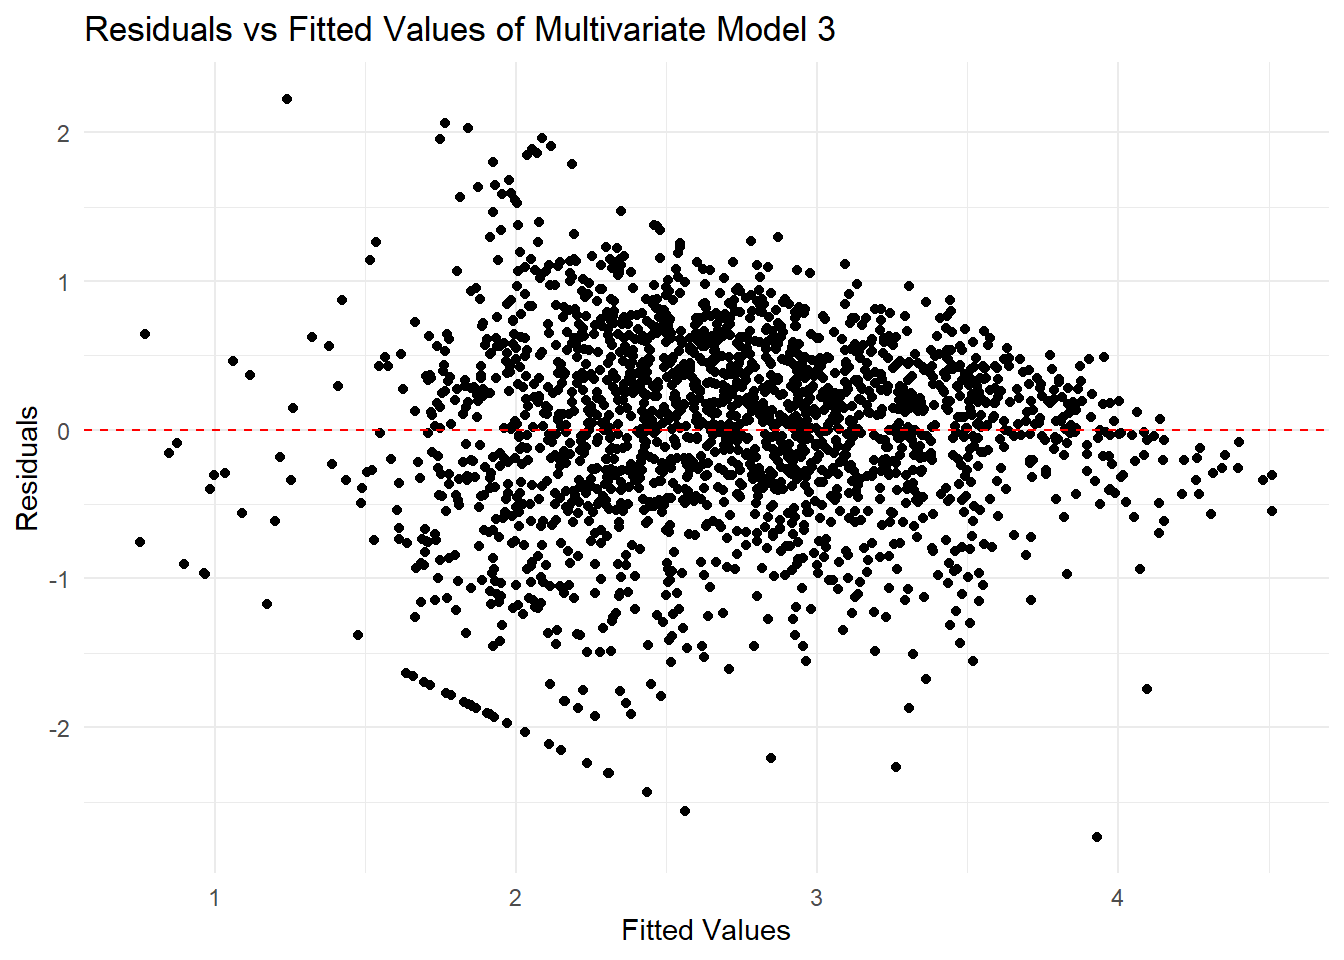
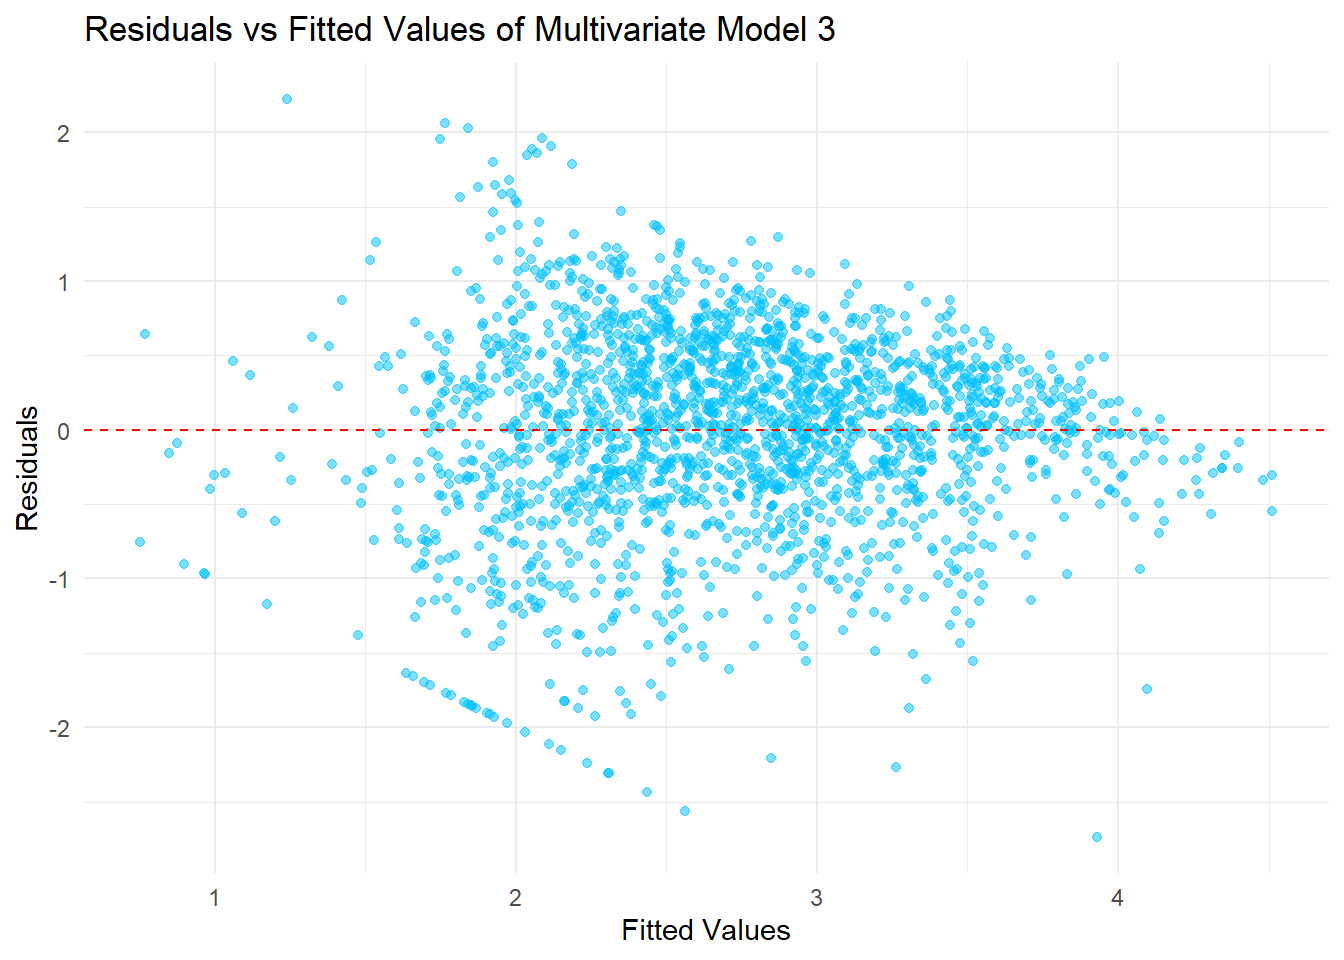
residual plots

diff --git a/statistical_analysis.html b/statistical_analysis.html
@@ -1205,7 +1205,7 @@ Confidence Intervals</caption>
   ) 
 m1_residual |&gt;
   ggplot(aes(x = fitted, y = residuals)) +
-  geom_point() +
+  geom_point(alpha = 0.5, color = &quot;deepskyblue&quot;) +
   geom_hline(yintercept = 0, linetype = &quot;dashed&quot;, color = &quot;red&quot;) +
   theme_minimal() +
   labs(
@@ -1220,7 +1220,7 @@ m1_residual |&gt;
   ) 
 m2_residual |&gt;
   ggplot(aes(x = fitted, y = residuals)) +
-  geom_point() +
+  geom_point(alpha = 0.5, color = &quot;deepskyblue&quot;) +
   geom_hline(yintercept = 0, linetype = &quot;dashed&quot;, color = &quot;red&quot;) +
   theme_minimal() +
   labs(
@@ -1235,7 +1235,7 @@ m2_residual |&gt;
   ) 
 m3_residual |&gt;
   ggplot(aes(x = fitted, y = residuals)) +
-  geom_point() +
+  geom_point(alpha = 0.5, color = &quot;deepskyblue&quot;) +
   geom_hline(yintercept = 0, linetype = &quot;dashed&quot;, color = &quot;red&quot;) +
   theme_minimal() +
   labs(
